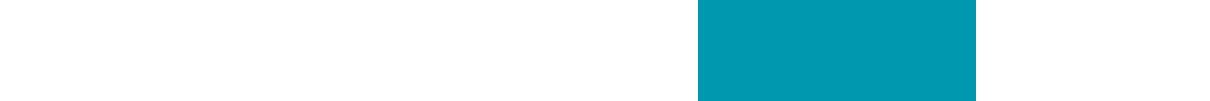
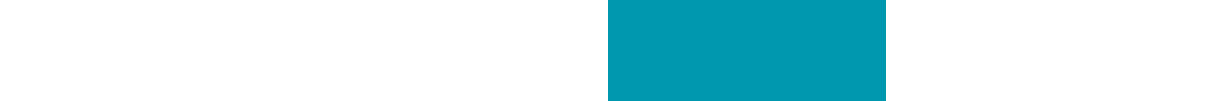
Seccion de productos
Se añadio el hover a los productos, proveedores, menu y secciones de
jquery para hover.

Changed region(s): [[0.7339, 0.0, 0.8256, 1.0], [0.4893, 0.0, 0.581, 1.0]]

diff --git a/Pagina/Plasticos Centauro/productos.html b/Pagina/Plasticos Centauro/productos.html
@@ -24,8 +24,8 @@
 	</head>
 	<body>
 		<header>
-			<div class="container background-blanco"></div>
-			<div class="container background-menu2">
+			<div class="container background-blanco-productos"></div>
+			<div class="container background-menu">
 
 				<div class="row">
 					<div class="responsive-logo"></div>
@@ -50,10 +50,51 @@
 			</div>
 		</header>
 		<br>
+		<div class="container">
+			<div class="row">
+				<div class="col-md-2 nopadding">
+					<img id="img-termico" src="img/termicos.jpg" class="img-responsive img-display border-termico2">
+					<div class="background-text-pro border-termico">
+						<p class="text-center p-prodctos">Térmico</p>
+					</div>
+				</div>
+				<div class="col-md-2 nopadding">
+					<img id="img-plasticos" src="img/Plastico-Vertical.png" class="img-responsive img-display">
+					<div class="background-text-pro">
+						<p class="text-center p-prodctos">Plástico</p>
+					</div>
+				</div>
+				<div class="col-md-2 nopadding">
+					<img id="img-bolsas" src="img/Bolsas-Vertical.png" class="img-responsive img-display">
+					<div class="background-text-pro">
+						<p class="text-center p-prodctos">Bolsas</p>
+					</div>
+				</div>
+				<div class="col-md-2 nopadding">
+					<img id="img-saborizantes" src="img/Saborizantes-Vertical.png" class="img-responsive img-display">
+					<div class="background-text-pro">
+						<p class="text-center p-prodctos">Saborizantes y concentrado</p>
+					</div>
+				</div>
+				<div class="col-md-2 nopadding">
+					<img id="img-domos" src="img/Domos-Vertical.png" class="img-responsive img-display">
+					<div class="background-text-pro">
+						<p class="text-center p-prodctos">Domos</p>
+					</div>
+				</div>
+				<div class="col-md-2 nopadding">
+					<img id="img-especias" src="img/Especias-Vertical.jpg" class="img-responsive img-display border-especias2">
+					<div class="background-text-pro border-especias">
+						<p class="text-center p-prodctos">Especias y cereales</p>
+					</div>
+				</div>
+			</div>
+		</div>
+		<br>
 		<div class="container back-blue">
 			<div class="row">
 				<div class="col-md-2">
-					<img src="img/Deiman.png" class="img-responsive">
+					<img src="img/reyma-patrocinadores.png" class="img-responsive" style="padding:8px;">
 				</div>
 				<div class="col-md-2">
 					<img src="img/Deiman.png" class="img-responsive">
@@ -121,12 +162,10 @@
                </div>
             </footer>
 			<!-- jQuery (necessary for Bootstrap's JavaScript plugins)-->
-			<script src="https://ajax.googleapis.com/ajax/libs/jquery/1.11.0/jquery.min.js"></script>
+			<script src="js/jQuery-v3.1.1.js"></script>
 			<!-- Include all compiled plugins (below), or include individual files as needed -->
 			<script src="js/bootstrap.min.js"></script>
-			<script src="js/jquery.flexslider.js"></script>
-			<script src="js/scripts.js"></script>
-			<script src="js/modernizr.js"></script>
-			<script src="js/waypoints.min.js"></script>
+			<!-- script para cargar hover de imagenes -->
+			<script src="js/productos.js"></script>
 		</body>
 		</html>

diff --git a/Pagina/Plasticos Centauro/css/styles.css b/Pagina/Plasticos Centauro/css/styles.css
@@ -188,6 +188,7 @@ Embedded content
 * 2. Improves image quality when scaled in IE 7. */
 img {
 	border: 0; /* 1 */
+	margin: 0;
 	-ms-interpolation-mode: bicubic; /* 2 */
  }
  
@@ -870,7 +871,7 @@ section.sign_up {padding: 40px 0 110px 0;}
 
 .background-menu{
 	background-color: #004c83;
-	border-bottom: 2px white solid;
+	/*border-bottom: 2px white solid;*/
 	border-radius: 0 0 10px 10px;
 	border-bottom-left-radius: 10%;
     border-bottom-right-radius: 10%;
@@ -893,7 +894,25 @@ section.sign_up {padding: 40px 0 110px 0;}
 }
 
 .background-blanco{
-	background-color: white;
+	background-image: url('../img/hover1.jpg');
+	width: 1170px;
+	height: 101px;
+	
+}
+.background-blanco-productos{
+	background-image: url('../img/hover2.jpg');
+	width: 1170px;
+	height: 101px;
+	
+}
+.background-blanco-sucursales{
+	background-image: url('../img/hover3.jpg');
+	width: 1170px;
+	height: 101px;
+	
+}
+.background-blanco-contacto{
+	background-image: url('../img/hover4.jpg');
 	width: 1170px;
 	height: 101px;
 	
@@ -1071,4 +1090,29 @@ section.sign_up {padding: 40px 0 110px 0;}
 	background-color: #004c83;
 	border-radius: 10px;
 
+}
+.img-display{
+	display: inline-block;
+}
+.p-prodctos{
+	font-size: 14px;
+    margin: 0;
+    padding: 0;
+    padding-top: 3%;
+}
+.background-text-pro{
+	height: 36px;
+	background-color: #004c83;
+}
+.border-termico{
+	border-radius: 0 0 0 10px;
+}
+.border-termico2{
+	border-radius: 10px 0 0 0;
+}
+.border-especias{
+	border-radius: 0 0 10px 0;
+}
+.border-especias2{
+	border-radius: 0 10px 0 0;
 }

diff --git a/Pagina/Plasticos Centauro/js/productos.js b/Pagina/Plasticos Centauro/js/productos.js
@@ -1,0 +1,38 @@
+$( document ).ready(function() {
+   // termicos
+    $("#img-termico").hover(function() {
+    document.getElementById('img-termico').src="img/Termicos-Vertical-Hover.jpg";
+  	}, function() {
+    document.getElementById('img-termico').src="img/termicos.jpg";
+  	});
+    //plasticos
+    $("#img-plasticos").hover(function() {
+    document.getElementById('img-plasticos').src="img/Plastico-Vertical-Hover.jpg";
+    }, function() {
+    document.getElementById('img-plasticos').src="img/Plastico-Vertical.png";
+    });
+    //bolsas
+    $("#img-bolsas").hover(function() {
+    document.getElementById('img-bolsas').src="img/Bolsas-Vertical-Hover.jpg";
+    }, function() {
+    document.getElementById('img-bolsas').src="img/Bolsas-Vertical.png";
+    });
+    //saborizantes
+    $("#img-saborizantes").hover(function() {
+    document.getElementById('img-saborizantes').src="img/Saborizantes-Vertical-Hover.jpg";
+    }, function() {
+    document.getElementById('img-saborizantes').src="img/Saborizantes-Vertical.png";
+    });
+    //domos
+    $("#img-domos").hover(function() {
+    document.getElementById('img-domos').src="img/Domos-Vertical-Hover.jpg";
+    }, function() {
+    document.getElementById('img-domos').src="img/Domos-Vertical.png";
+    });
+    //especias
+    $("#img-especias").hover(function() {
+    document.getElementById('img-especias').src="img/Especias-Vertical-Hover.jpg";
+    }, function() {
+    document.getElementById('img-especias').src="img/Especias-Vertical.jpg";
+    });
+});

diff --git a/Pagina/Plasticos Centauro/sucursales.html b/Pagina/Plasticos Centauro/sucursales.html
@@ -24,7 +24,7 @@
 	</head>
 	<body>
 		<header>
-			<div class="container background-blanco"></div>
+			<div class="container background-blanco-sucursales"></div>
 			<div class="container background-menu">
 
 				<div class="row">

diff --git a/Pagina/Plasticos Centauro/contacto.html b/Pagina/Plasticos Centauro/contacto.html
@@ -24,7 +24,7 @@
 	</head>
 	<body>
 		<header>
-			<div class="container background-blanco"></div>
+			<div class="container background-blanco-contacto"></div>
 			<div class="container background-menu">
 
 				<div class="row">
